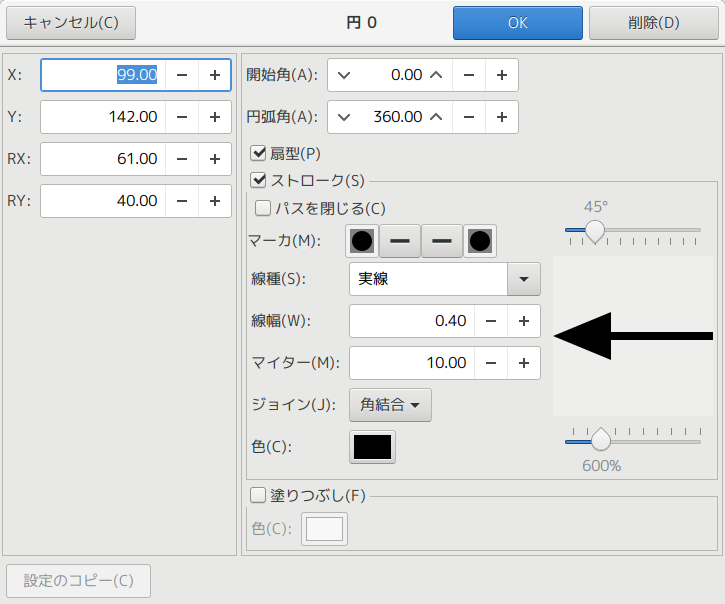
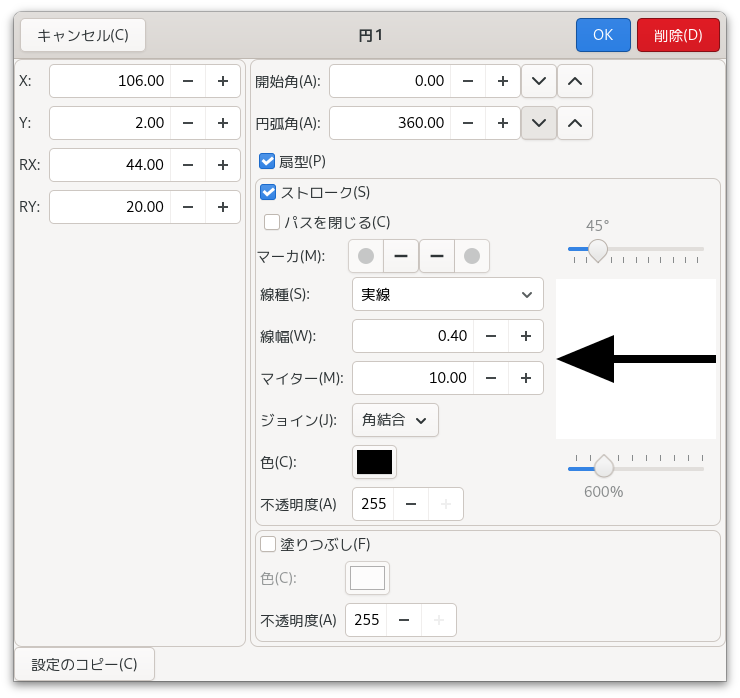
release 6.09.10.

Changed region(s): [[0.0, 0.0, 1.0, 1.0]]

diff --git a/manual/ja/refer.html b/manual/ja/refer.html
@@ -664,9 +664,21 @@
 	</td>
        </tr>
        <tr>
+	<td>不透明度1</td>
+	<td>
+	 プロットする線、マーク等の不透明度。
+	</td>
+       </tr>
+       <tr>
 	<td>色2</td>
 	<td>
-	 タイプが mark, rectangle_fill, bar_fill_x, bar_fill_y の時の第2色。
+
+	</td>
+       </tr>
+       <tr>
+	<td>不透明度2</td>
+	<td>
+	 タイプが mark, rectangle_fill, bar_fill_x, bar_fill_y の時の第2色の不透明度。
 	</td>
        </tr>
        <tr>
@@ -689,12 +701,6 @@
 	</td>
        </tr>
        <tr>
-	<td>サイズ</td>
-	<td>
-	 マークの大きさ、エラーバーのバーの長さなどのサイズ。
-	</td>
-       </tr>
-       <tr>
 	<td>マイター</td>
 	<td>
 	 マイターリミット。折れ線の角で輪郭をどこまで描画するかを決める。
@@ -704,6 +710,12 @@
 	<td>ジョイン</td>
 	<td>
 	 折れ線の角の輪郭形状。
+	</td>
+       </tr>
+       <tr>
+	<td>サイズ</td>
+	<td>
+	 マークの大きさ、エラーバーのバーの長さなどのサイズ。
 	</td>
        </tr>
       </table>
@@ -1093,9 +1105,9 @@
 	</td>
        </tr>
        <tr>
-	<td>線幅、色</td>
+	<td>線幅、色、不透明度</td>
 	<td>
-	 基線の幅と色。
+	 基線の幅と色、不透明度。
 	</td>
        </tr>
        <tr>
@@ -1141,9 +1153,9 @@
 	</td>
        </tr>
        <tr>
-	<td>色</td>
+	<td>色、不透明度</td>
 	<td>
-	 目盛線の色。
+	 目盛線の色、不透明度。
 	</td>
        </tr>
        <tr>
@@ -1392,9 +1404,9 @@
 	</td>
        </tr>
        <tr>
-	<td>色</td>
+	<td>色、不透明度</td>
 	<td>
-	 目盛数字の色。
+	 目盛数字の色、不透明度。
 	</td>
        </tr>
       </table>
@@ -1477,15 +1489,15 @@
   </td>
  </tr>
  <tr>
-  <td>色</td>
+  <td>色、不透明度</td>
   <td>
-   グリッドの色。
+   グリッドの色、不透明度。
   </td>
  </tr>
  <tr>
-  <td>背景<br>背景色</td>
+  <td>背景<br>背景色、不透明度</td>
   <td>
-   「背景」をチェックすると、グラフの背景を一様に「背景色」で塗りつぶす。
+   「背景」をチェックすると、グラフの背景を一様に「背景色、不透明度」で塗りつぶす。
   </td>
  </tr>
 </table>
@@ -1532,9 +1544,9 @@
      </td>
     </tr>
     <tr>
-     <td>色</td>
+     <td>色、不透明度</td>
      <td>
-      レジェンドの色。
+      レジェンドの色、不透明度。
      </td>
     </tr>
    </table>
@@ -1661,7 +1673,7 @@
 	 塗りつぶし
 	</td>
 	<td>
-	 四角形の内部を「色」で塗りつぶす。
+	 四角形の内部を「色、不透明度」で塗りつぶす。
 	</td>
        </tr>
        <tr>
@@ -1669,7 +1681,7 @@
 	 ストローク
 	</td>
 	<td>
-	 四角形の輪郭を「色」で描画。
+	 四角形の輪郭を「色、不透明度」で描画。
 	</td>
        </tr>
       </table>
@@ -1720,7 +1732,7 @@
 	 ストローク
 	</td>
 	<td>
-	 扇形または弦形の輪郭を「色」で描画。
+	 扇形または弦形の輪郭を「色、不透明度」で描画。
 	</td>
        </tr>
        <tr>
@@ -1803,6 +1815,14 @@
 	</td>
 	<td>
 	 マークの第一色「色1」と第二色「色2」。
+	</td>
+       </tr>
+       <tr>
+	<td>
+	 不透明度1, 不透明度2
+	</td>
+	<td>
+	 マークの第一色の不透明度と第二色の不透明度。
 	</td>
        </tr>
       </table>
@@ -2206,13 +2226,6 @@
   <td>「カレントディレクトリを移動」をチェック</td>
   <td>
    ファイルを選択するダイアログボックスを開いた時、「カレントディレクトリを移動」が初期状態でチェックされているようにする。
-  </td>
- </tr>
- <tr>
-  <td>不透明度を使う</td>
-  <td>
-   グラフやレジェンドの色指定で透明度を使用するかどうかを設定する。
-   ただし、PostScript など不透明度に対応していないフォーマットにエクスポートする時は不透明度設定を使った部分がビットマップで出力されることがある。
   </td>
  </tr>
  <tr>

diff --git a/manual/ja/object.html b/manual/ja/object.html
@@ -114,7 +114,7 @@ size of instance: 32
 <h3><a name="system">system</a></h3>
 <pre>
 object: system
-version: 6.09.06
+version: 6.09.09
 parent: object
 object id: 2
 number of fields: 39
@@ -457,8 +457,8 @@ alias: gra2win:gra2x11
 version: 1.00.00
 parent: gra2cairo
 object id: 12
-number of fields: 37
-size of instance: 264
+number of fields: 35
+size of instance: 256
 </pre>
 <table border="1" cellspacing="0">
 <tr><th>permission</th><th>field name</th><th>field type</th></tr>
@@ -492,13 +492,11 @@ size of instance: 264
 <tr><td>rw-</td><td align="right">BR</td><td>int</td></tr>
 <tr><td>rw-</td><td align="right">BG</td><td>int</td></tr>
 <tr><td>rw-</td><td align="right">BB</td><td>int</td></tr>
-<tr><td>r-x</td><td align="right">wait_action</td><td>char*( void )</td></tr>
 <tr><td>---</td><td align="right">_gtklocal</td><td>void*</td></tr>
 <tr><td>---</td><td align="right">_output</td><td>void( )</td></tr>
 <tr><td>---</td><td align="right">_strwidth</td><td>int( )</td></tr>
 <tr><td>---</td><td align="right">_charascent</td><td>int( )</td></tr>
 <tr><td>---</td><td align="right">_chardescent</td><td>int( )</td></tr>
-<tr><td>---</td><td align="right">_evloop</td><td>void( )</td></tr>
 </table>
 
 <h3><a name="gra2gdk">gra2gdk</a></h3>
@@ -563,6 +561,7 @@ size of instance: 272
 <tr><td>rw-</td><td align="right">dpix</td><td>int</td></tr>
 <tr><td>rw-</td><td align="right">dpiy</td><td>int</td></tr>
 <tr><td>rw-</td><td align="right">antialias</td><td>enum( none default gray )</td></tr>
+<tr><td>rw-</td><td align="right">use_opacity</td><td>bool</td></tr>
 <tr><td>---</td><td align="right">_local</td><td>void*</td></tr>
 <tr><td>--x</td><td align="right">init</td><td>void( )</td></tr>
 <tr><td>--x</td><td align="right">done</td><td>void( )</td></tr>
@@ -574,7 +573,6 @@ size of instance: 272
 <tr><td>rw-</td><td align="right">dpi</td><td>int</td></tr>
 <tr><td>rw-</td><td align="right">redraw_flag</td><td>bool</td></tr>
 <tr><td>rw-</td><td align="right">redraw_num</td><td>int</td></tr>
-<tr><td>rw-</td><td align="right">use_opacity</td><td>bool</td></tr>
 <tr><td>r-x</td><td align="right">redraw</td><td>void( void )</td></tr>
 <tr><td>r-x</td><td align="right">draw</td><td>void( void )</td></tr>
 <tr><td>r-x</td><td align="right">flush</td><td>void( void )</td></tr>
@@ -592,7 +590,7 @@ size of instance: 272
 <tr><td>r-x</td><td align="right">locale</td><td>char*( void )</td></tr>
 <tr><td>r-x</td><td align="right">active</td><td>bool( void )</td></tr>
 <tr><td>r-x</td><td align="right">addin_list_append</td><td>void( obj )</td></tr>
-<tr><td>---</td><td align="right">_evloop</td><td>void( )</td></tr>
+<tr><td>r-x</td><td align="right">configuration</td><td>char*( )</td></tr>
 <tr><td>---</td><td align="right">_output</td><td>void( )</td></tr>
 <tr><td>---</td><td align="right">_strwidth</td><td>int( )</td></tr>
 <tr><td>---</td><td align="right">_charascent</td><td>int( )</td></tr>
@@ -1775,8 +1773,8 @@ object: dialog
 version: 1.00.00
 parent: object
 object id: 38
-number of fields: 28
-size of instance: 192
+number of fields: 26
+size of instance: 176
 </pre>
 <table border="1" cellspacing="0">
 <tr><th>permission</th><th>field name</th><th>field type</th></tr>
@@ -1787,8 +1785,6 @@ size of instance: 192
 <tr><td>--x</td><td align="right">init</td><td>void( )</td></tr>
 <tr><td>--x</td><td align="right">done</td><td>void( )</td></tr>
 <tr><td>---</td><td align="right">next</td><td>void*</td></tr>
-<tr><td>rw-</td><td align="right">x</td><td>int</td></tr>
-<tr><td>rw-</td><td align="right">y</td><td>int</td></tr>
 <tr><td>rw-</td><td align="right">title</td><td>char*</td></tr>
 <tr><td>rw-</td><td align="right">caption</td><td>char*</td></tr>
 <tr><td>rw-</td><td align="right">select</td><td>int[]</td></tr>

diff --git a/manual/ja/tutorial.html b/manual/ja/tutorial.html
@@ -271,8 +271,8 @@
       </p>
       <table border="0">
        <tr>
-	<td><img src="./tutorial/filedlg.png" WIDTH="388" HEIGHT="312" ALT=""></td>
-	<td><img src="./tutorial/fdialog.png" WIDTH="244" HEIGHT="244" ALT=""></td>
+	<td><img src="./tutorial/filedlg.png" WIDTH="386" HEIGHT="398" ALT=""></td>
+	<td><img src="./tutorial/fdialog.png" WIDTH="244" HEIGHT="164" ALT=""></td>
        </tr>
       </table>
       <p>
@@ -310,8 +310,8 @@
       </p>
       <table border="0">
        <tr>
-	<td><img src="./tutorial/fdialog2.png" WIDTH="244" HEIGHT="244" ALT=""></td>
-	<td><img src="./tutorial/fdialog.png" WIDTH="244" HEIGHT="244" ALT=""></td>
+	<td><img src="./tutorial/fdialog2.png" WIDTH="244" HEIGHT="164" ALT=""></td>
+	<td><img src="./tutorial/fdialog.png" WIDTH="244" HEIGHT="164" ALT=""></td>
        </tr>
       </table>
 
@@ -348,7 +348,7 @@
       下図のコントロールボタンを押してLegend の種類を選び、マウスで位置を決めます。
       Legend の作成が終わるとマウスは選択モードに戻ります。
       複数の Legend を作成したいときは SHIFT キーを押しながらコントロールボタンをクリックしてください。
-      また Legend の位置指定時に CTL キーを押しながらマウスを操作すると、角度や縦横の比を制限できます。
+      また Legend の位置指定時に CTRL キーを押しながらマウスを操作すると、角度や縦横の比を制限できます。
       </p>
       <p>
       <img src="../img/legend.png" ALT="">
@@ -390,7 +390,7 @@
       </p>
       <p>
       マウスのドラッグで移動、拡大・縮小ができます。
-      移動の際に CTL キーを押しながらドラッグすると、水平垂直方向にしか動きませんので、位置合わせをするのに便利です。
+      移動の際に CTRL キーを押しながらドラッグすると、水平垂直方向にしか動きませんので、位置合わせをするのに便利です。
       また、移動の際はグリッドが効いています。このグリッドを解除するには SHIFT キーを押しながらドラッグしてください。
       ダブルクリックでダイアログボックスが開き各種設定の変更が行えます。
       </p>
@@ -530,7 +530,7 @@
       <table border="0">
        <tr>
 	<td><img src="./tutorial/filedlg.png" WIDTH="388" HEIGHT="312" ALT=""></td>
-	<td><img src="./tutorial/fdialog3.png" WIDTH="245" HEIGHT="243" ALT=""></td>
+	<td><img src="./tutorial/fdialog3.png" WIDTH="244" HEIGHT="164" ALT=""></td>
        </tr>
       </table>
       <p>

diff --git a/manual/ja/ngraph.html b/manual/ja/ngraph.html
@@ -8,7 +8,7 @@
   </head>
   <body>
     <h1><i>Ngraph-GTK User's Manual</i></h1>
-    <p><a href="http://hito.music.coocan.jp/ngraph/ngraph-gtk.html"><img src="../ngraph.svg" width="64" height="64" alt="Ngraph logo" border="0"></a></p>
+    <p><a href="https://github.com/htrb/ngraph-gtk/"><img src="../ngraph.svg" width="64" height="64" alt="Ngraph logo" border="0"></a></p>
     <p>Copyright (C) 2002, Satoshi ISHIZAKA.</p>
     <details>
       <summary><a href="./intro.html">Ngraphの概要</a></summary>

diff --git a/manual/ja/copyrigh.html b/manual/ja/copyrigh.html
@@ -67,7 +67,7 @@ Temple Place, Suite 330, Boston, MA 02111-1307 USA)。
 <ul>
  <li>伊東宏之
  <li>e-mail: <a href="mailto:ZXB01226@nifty.com">ZXB01226@nifty.com</a>
- <li> URL: <a href="http://hito.music.coocan.jp/ngraph/ngraph-gtk.html">http://hito.music.coocan.jp/ngraph/ngraph-gtk.html</a><br><br>
+ <li> URL: <a href="https://github.com/htrb/ngraph-gtk/">https://github.com/htrb/ngraph-gtk/</a><br><br>
 </ul>
 <br>
 
